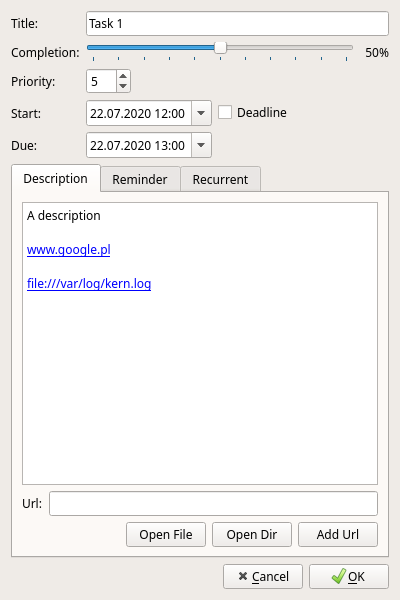
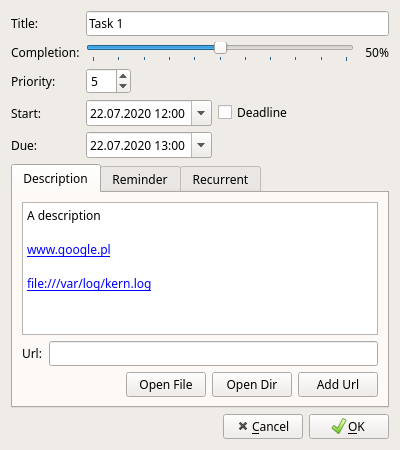
Update task dialog screen

diff --git a/src/testhanlendar/gui/taskdialog_example.py b/src/testhanlendar/gui/taskdialog_example.py
@@ -78,7 +78,7 @@ task.setDefaultDateTime( datetime.today().replace( hour=12, minute=0, second=0 )
 setup_interrupt_handling()
 
 dialog = TaskDialog( task )
-dialog.resize(400, 600)
+dialog.resize(400, 450)
 
 root_path = get_root_path()
 renderToPixmap( dialog, root_path + "/tmp/taskdialog-big.png" )

diff --git a/README.md b/README.md
@@ -33,9 +33,9 @@ Application is inspired by:
 [![ToDos list](doc/app-todos-small.png "ToDos list")](doc/app-todos-big.png)
 [![Notes](doc/app-notes-small.png "Notes")](doc/app-notes-big.png)
 
-[![New task dialog](doc/taskdialog-small.png "New task dialog")](doc/taskdialog-big.png)
 [![Day list](doc/daylistwidget-small.png "Day list")](doc/daylistwidget-big.png)
 [![Month calendar](doc/monthcalendar-small.png "Month calendar")](doc/monthcalendar-big.png)
+[![New task dialog](doc/taskdialog-small.png "New task dialog")](doc/taskdialog-big.png)
 
 
 ## Disclaimer
